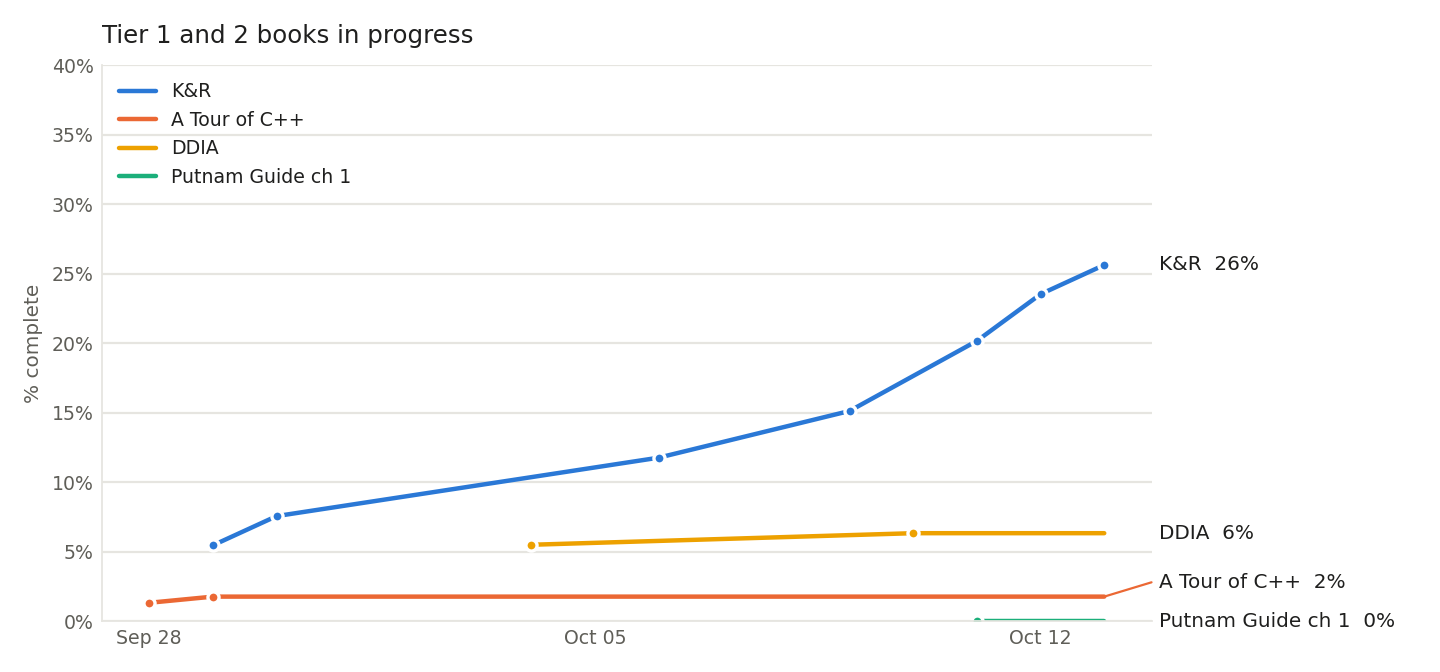
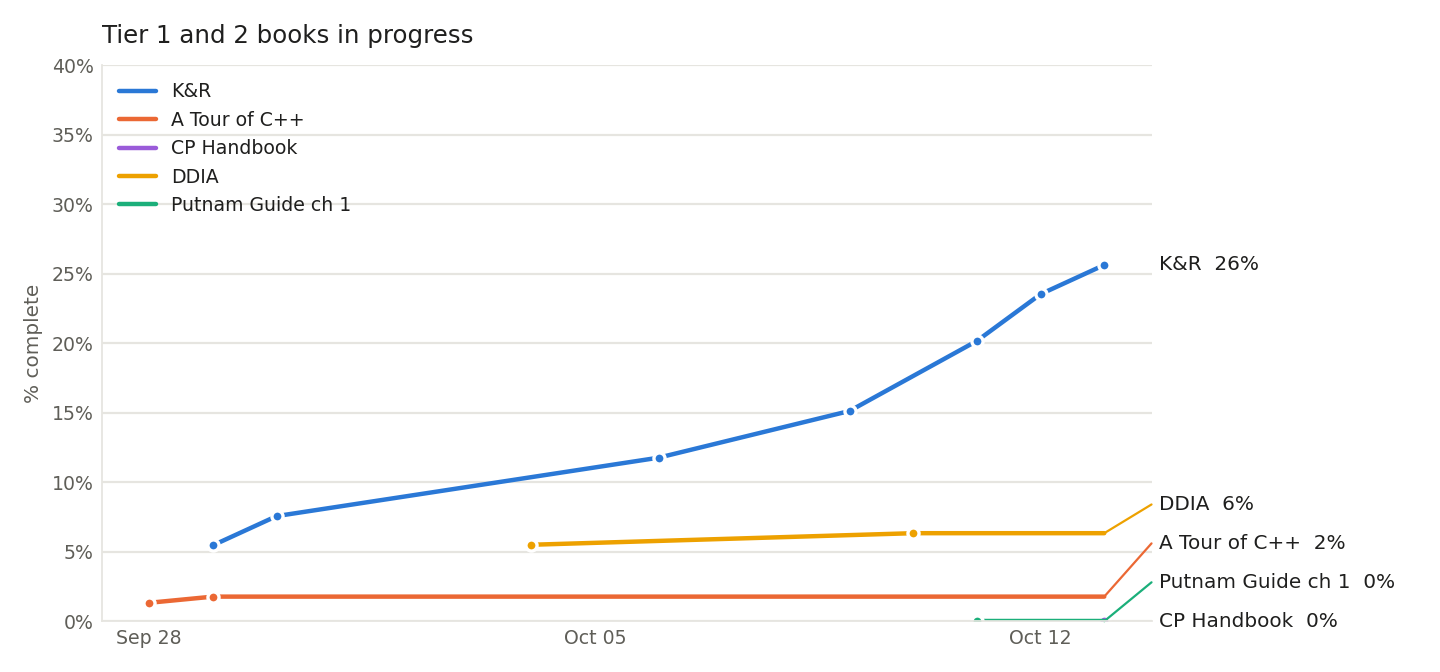
Add Competitive Programmer's Handbook to the chart, pages 35 to 300

Changed region(s): [[0.75, 0.7188, 0.9688, 0.9062], [0.0625, 0.1875, 0.25, 0.3125], [0.8125, 0.9062, 0.9688, 0.9375]]

diff --git a/scripts/plot_progress.py b/scripts/plot_progress.py
@@ -24,6 +24,7 @@ CSV, PNG, README = ROOT / "progress.csv", ROOT / "progress.png", ROOT / "README.
 BOOKS = [
     ("K&R", "#2a78d6", "pages"),
     ("A Tour of C++", "#eb6834", "pages"),
+    ("CP Handbook", "#9a5bd9", "pages"),  # pages 35 to 300 only; ch 1 and 2 skipped, so total is 266
     ("DDIA", "#eda100", "pages"),
     ("Putnam Guide ch 1", "#1baf7a", "items"),  # 1 definition + 5 theorems + 13 examples + 1 strategies section + 52 exercises
 ]

diff --git a/README.md b/README.md
@@ -17,6 +17,7 @@ Personal reading list across three tracks. Each track lives in its own file unde
 |---|---|---|---|
 | K&R | `█████░░░░░░░░░░░░░░░` | 26% | 61 of 238 pages |
 | A Tour of C++ | `░░░░░░░░░░░░░░░░░░░░` | 2% | 4 of 226 pages |
+| CP Handbook | `░░░░░░░░░░░░░░░░░░░░` | 0% | 0 of 266 pages |
 | DDIA | `█░░░░░░░░░░░░░░░░░░░` | 6% | 38 of 600 pages |
 | Putnam Guide ch 1 | `░░░░░░░░░░░░░░░░░░░░` | 0% | 0 of 72 items |
 <!-- progress:end -->
@@ -31,7 +32,7 @@ Data lives in [progress.csv](progress.csv). After logging, run `python3 scripts/
 |---|---|---|---|
 | [~] | The C Programming Language (2nd ed.) | Brian Kernighan, Dennis Ritchie | [quant](tracks/quant.md) |
 | [~] | A Tour of C++ | Bjarne Stroustrup | [quant](tracks/quant.md) |
-| [ ] | Competitive Programmer's Handbook (draft, Aug 2019) | Antti Laaksonen | [putnam-cp](tracks/putnam-cp.md) |
+| [~] | Competitive Programmer's Handbook (draft, Aug 2019) | Antti Laaksonen | [putnam-cp](tracks/putnam-cp.md) |
 | [~] | Putnam Guide | R. Ebrahimian (UMD) | [putnam-cp](tracks/putnam-cp.md) |
 
 ### Tier 2

diff --git a/tracks/putnam-cp.md b/tracks/putnam-cp.md
@@ -2,8 +2,11 @@
 
 ## Reading
 
-- [ ] **Competitive Programmer's Handbook** by Antti Laaksonen, draft of August 19, 2019 (Tier 1)
+- [~] **Competitive Programmer's Handbook** by Antti Laaksonen, draft of August 19, 2019 (Tier 1)
   Compact coverage of the standard CP toolkit: complexity, sorting, DP, graphs, number theory, geometry. Good fit for the 1000 to 1600 Codeforces range.
+  Plan: skip chapters 1 and 2 (pages 1 to 34, already known at 1100 Codeforces; Kadane's is the only thing there worth keeping).
+  Start at chapter 3 Sorting, page 35, and read to the end, page 300. Tracked in the chart as 266 pages.
+  Log: 2026-10-13 added, starting at page 35.
   Moved to Tier 1 on 2026-10-09: a listable Codeforces rating (1800+) is one of the two signals the summer 2028 tier-1
   internship resume needs. Target: 1800 by May 2027.
 - [~] **Putnam Guide** by R. Ebrahimian, University of Maryland, College Park (Tier 1)
